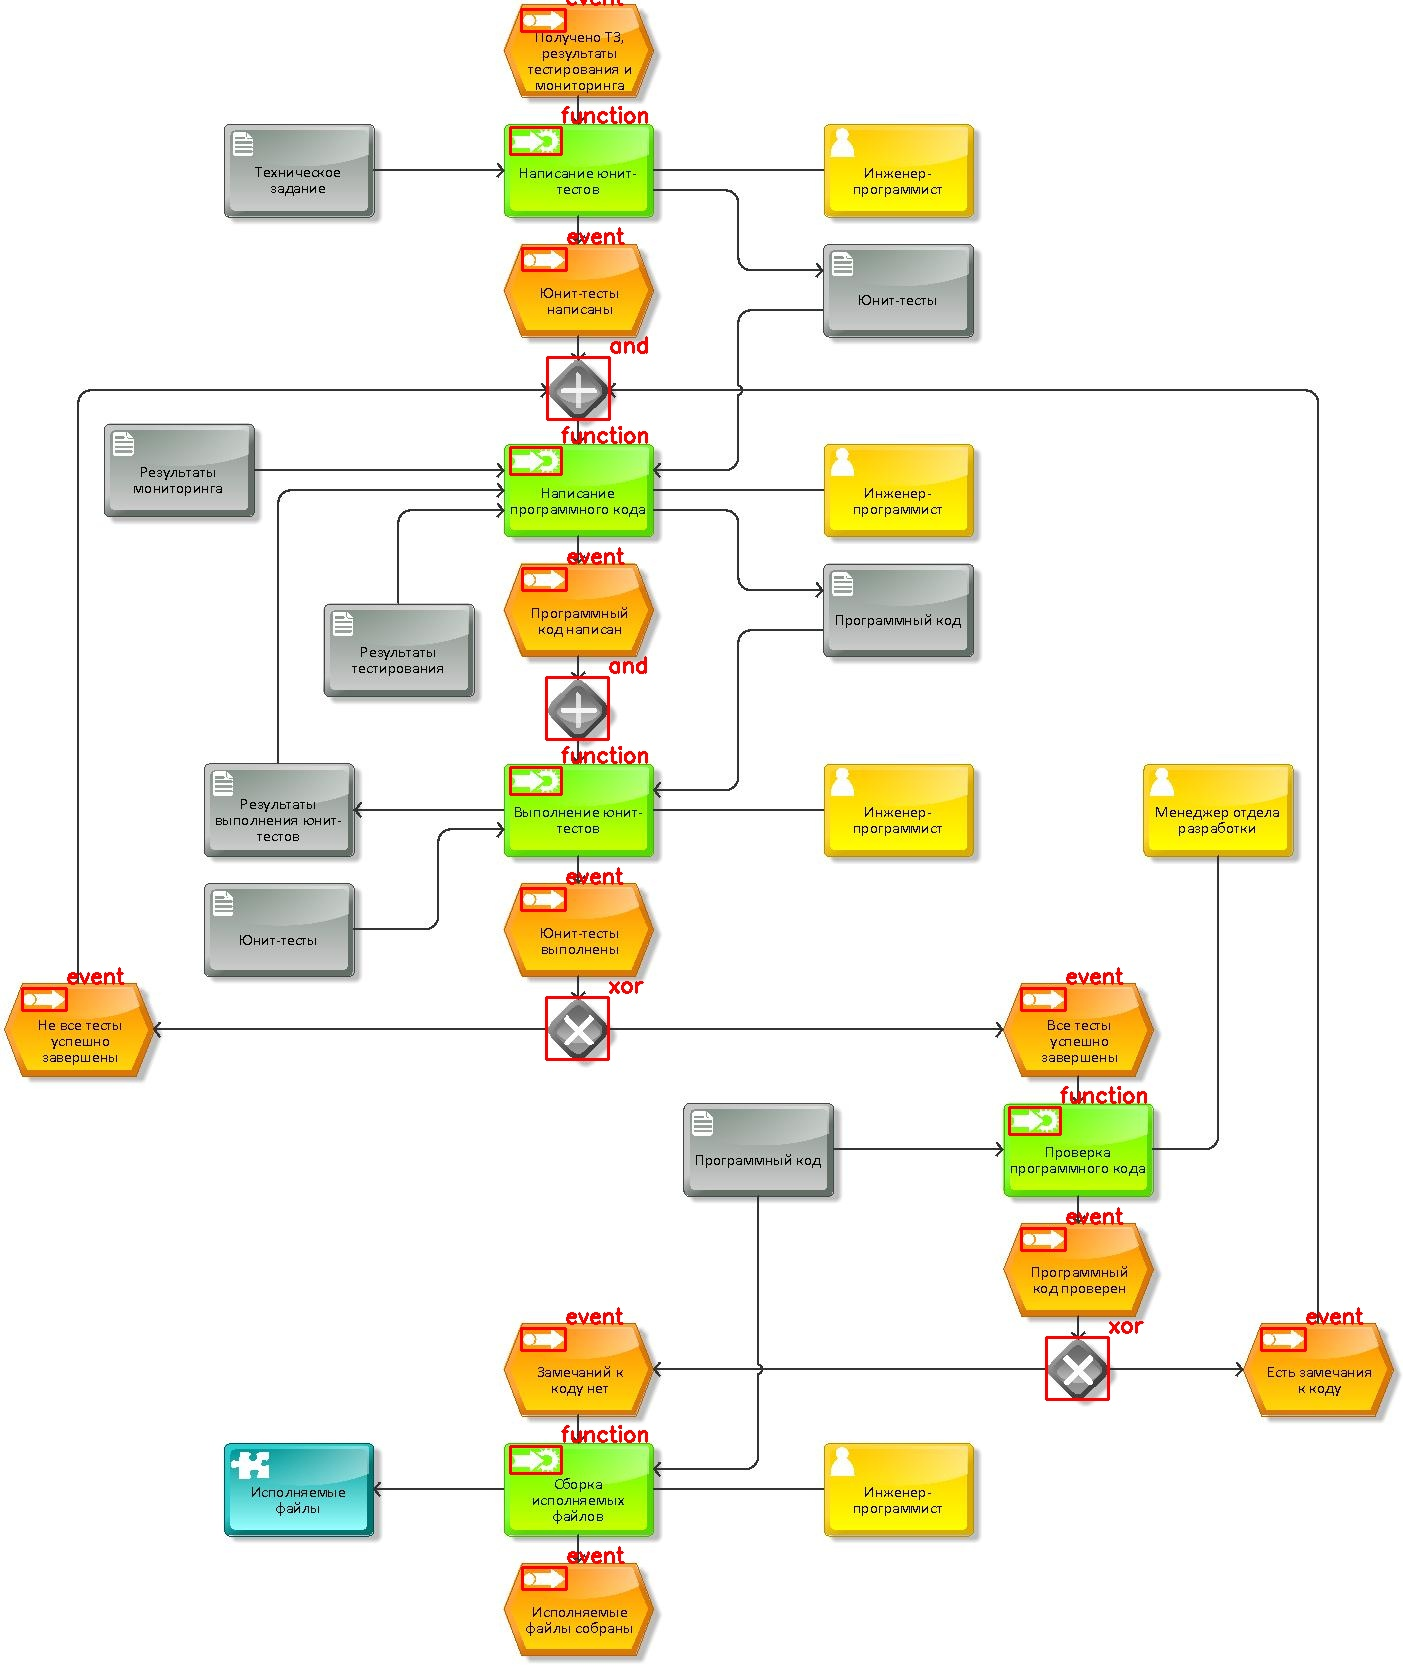
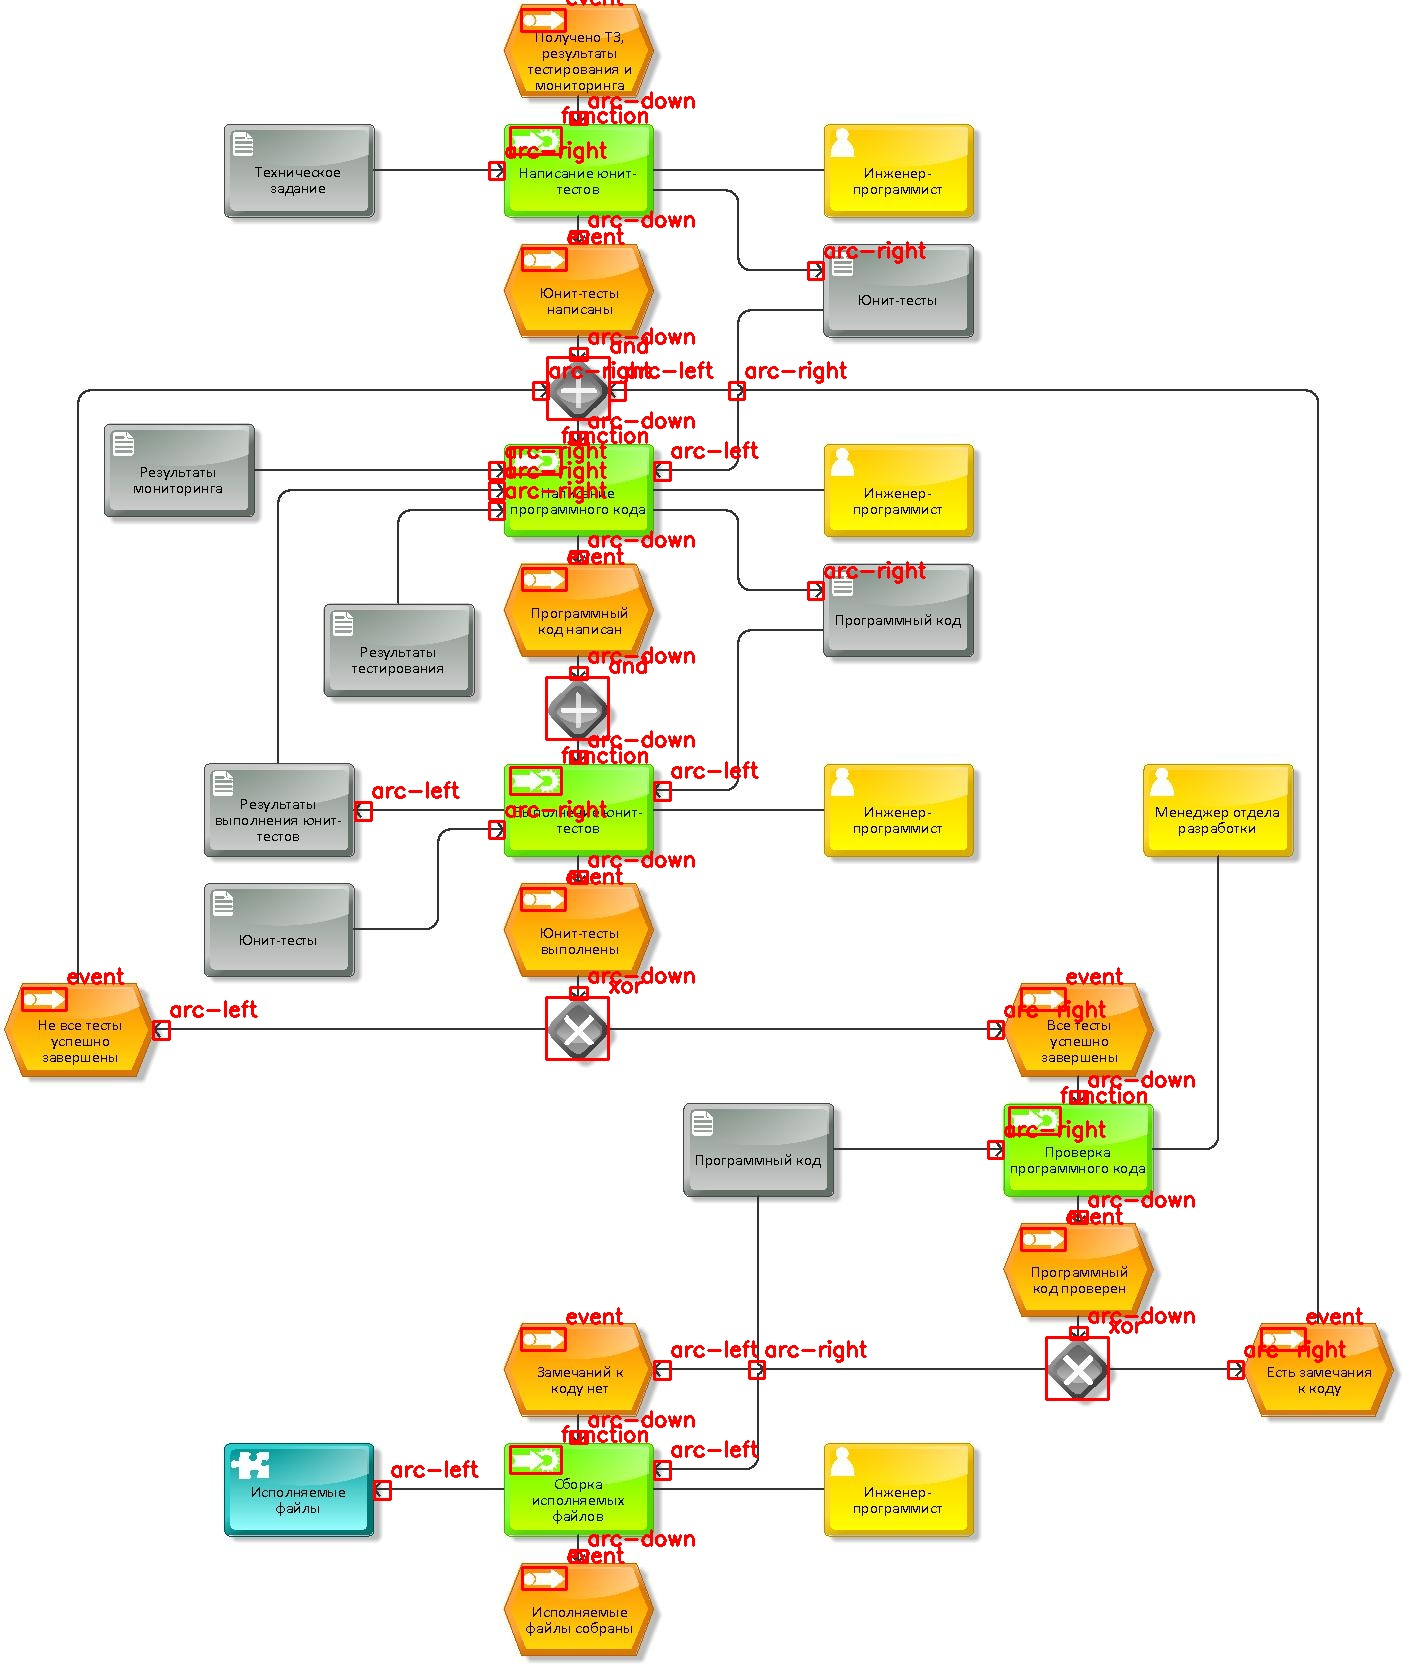
bpm-cv: arcs detection, new metrics (by Mendling)

diff --git a/research-calculations-python/bpm-cv/bpm-cv.py b/research-calculations-python/bpm-cv/bpm-cv.py
@@ -16,8 +16,6 @@ matching_color = (0, 0, 255)
 
 # iterate over all input diagrams
 for diagram in diagrams:
-    print('Diagram file name\t' + diagram)
-
     # open source process diagram, make it gray, and blur it
     img_rgb = cv2.imread(input_dir + '/' + diagram)
     img_gray = cv2.cvtColor(img_rgb, cv2.COLOR_BGR2GRAY)
@@ -26,11 +24,18 @@ for diagram in diagrams:
     # templates for matching
     # each has name, number of occurrence, path, color
     templates = [
+        # nodes templates
         ['xor', 0, 'xor.png'],
         ['or', 0, 'or.png'],
         ['and', 0, 'and.png'],
         ['function', 0, 'function.png'],
-        ['event', 0, 'event.png']
+        ['event', 0, 'event.png'],
+
+        # arcs templates
+        ['arc-down', 0, 'arc-down.png'],
+        ['arc-up', 0, 'arc-up.png'],
+        ['arc-right', 0, 'arc-right.png'],
+        ['arc-left', 0, 'arc-left.png']
     ]
 
     for path in templates:
@@ -81,51 +86,20 @@ for diagram in diagrams:
     # store processed image
     cv2.imwrite('output/' + diagram, img_rgb)
 
-    # print found templates
-    for path in templates:
-        print(path[0] + '\t' + str(path[1]))
-
-    # get values of certain metric numbers
+    # get values of certain metric
     xor_conns = templates[0][1]
     or_conns = templates[1][1]
     and_conns = templates[2][1]
     functions = templates[3][1]
     events = templates[4][1]
+    arcs = templates[5][1] + templates[6][1] + templates[7][1] + templates[8][1]
 
-    # calculate the general control-flow complexity coefficient
-    cfc_general = xor_conns * 2 + or_conns * 4 + and_conns
+    # total number of nodes
+    nodes = functions + events + xor_conns + or_conns + and_conns
 
-    print('Control-flow complexity\t' + str(cfc_general))
+    # total number of connectors
+    connectors = xor_conns + or_conns + and_conns
 
-    # there are 5 levels of understandability of process models
-    # 1 is the best, 5 is the worst
-    fuzzy_levels = []
-
-    # threshold values of (xor, or, and) connectors
-    # to check correspondence of a model to a certain level
-    cfc_thresholds = [
-        [6, 1, 1],
-        [12, 2, 1],
-        [22, 6, 3],
-        [31, 9, 4],
-        [46, 14, 7]
-    ]
-
-    # used to store correspondence of the diagram to each level
-    fuzzy_levels = []
-
-    for level in range(0, len(cfc_thresholds)):
-        fuzzy_values = []
-
-        # calculate membership values for each level
-        for i in range(0, len(cfc_thresholds[level])):
-            fuzzy_values.append(1 / (1 + (templates[i][1] - cfc_thresholds[level][i]) ** 2))
-
-        # store min value multiplied by result number of a level
-        fuzzy_levels.append(np.amin(fuzzy_values) * (1 + level))
-
-    # use Max-Criterion rule to get the understandability level
-    level = 1 + np.argmax(fuzzy_levels)
-
-    print('Level of understandability\t' + str(level))
+    # print diagram name and corresponding metrics
+    print('{}\t{}\t{}\t{}\t{}\t{}\t'.format(diagram, nodes, connectors, events, functions, arcs))
 
